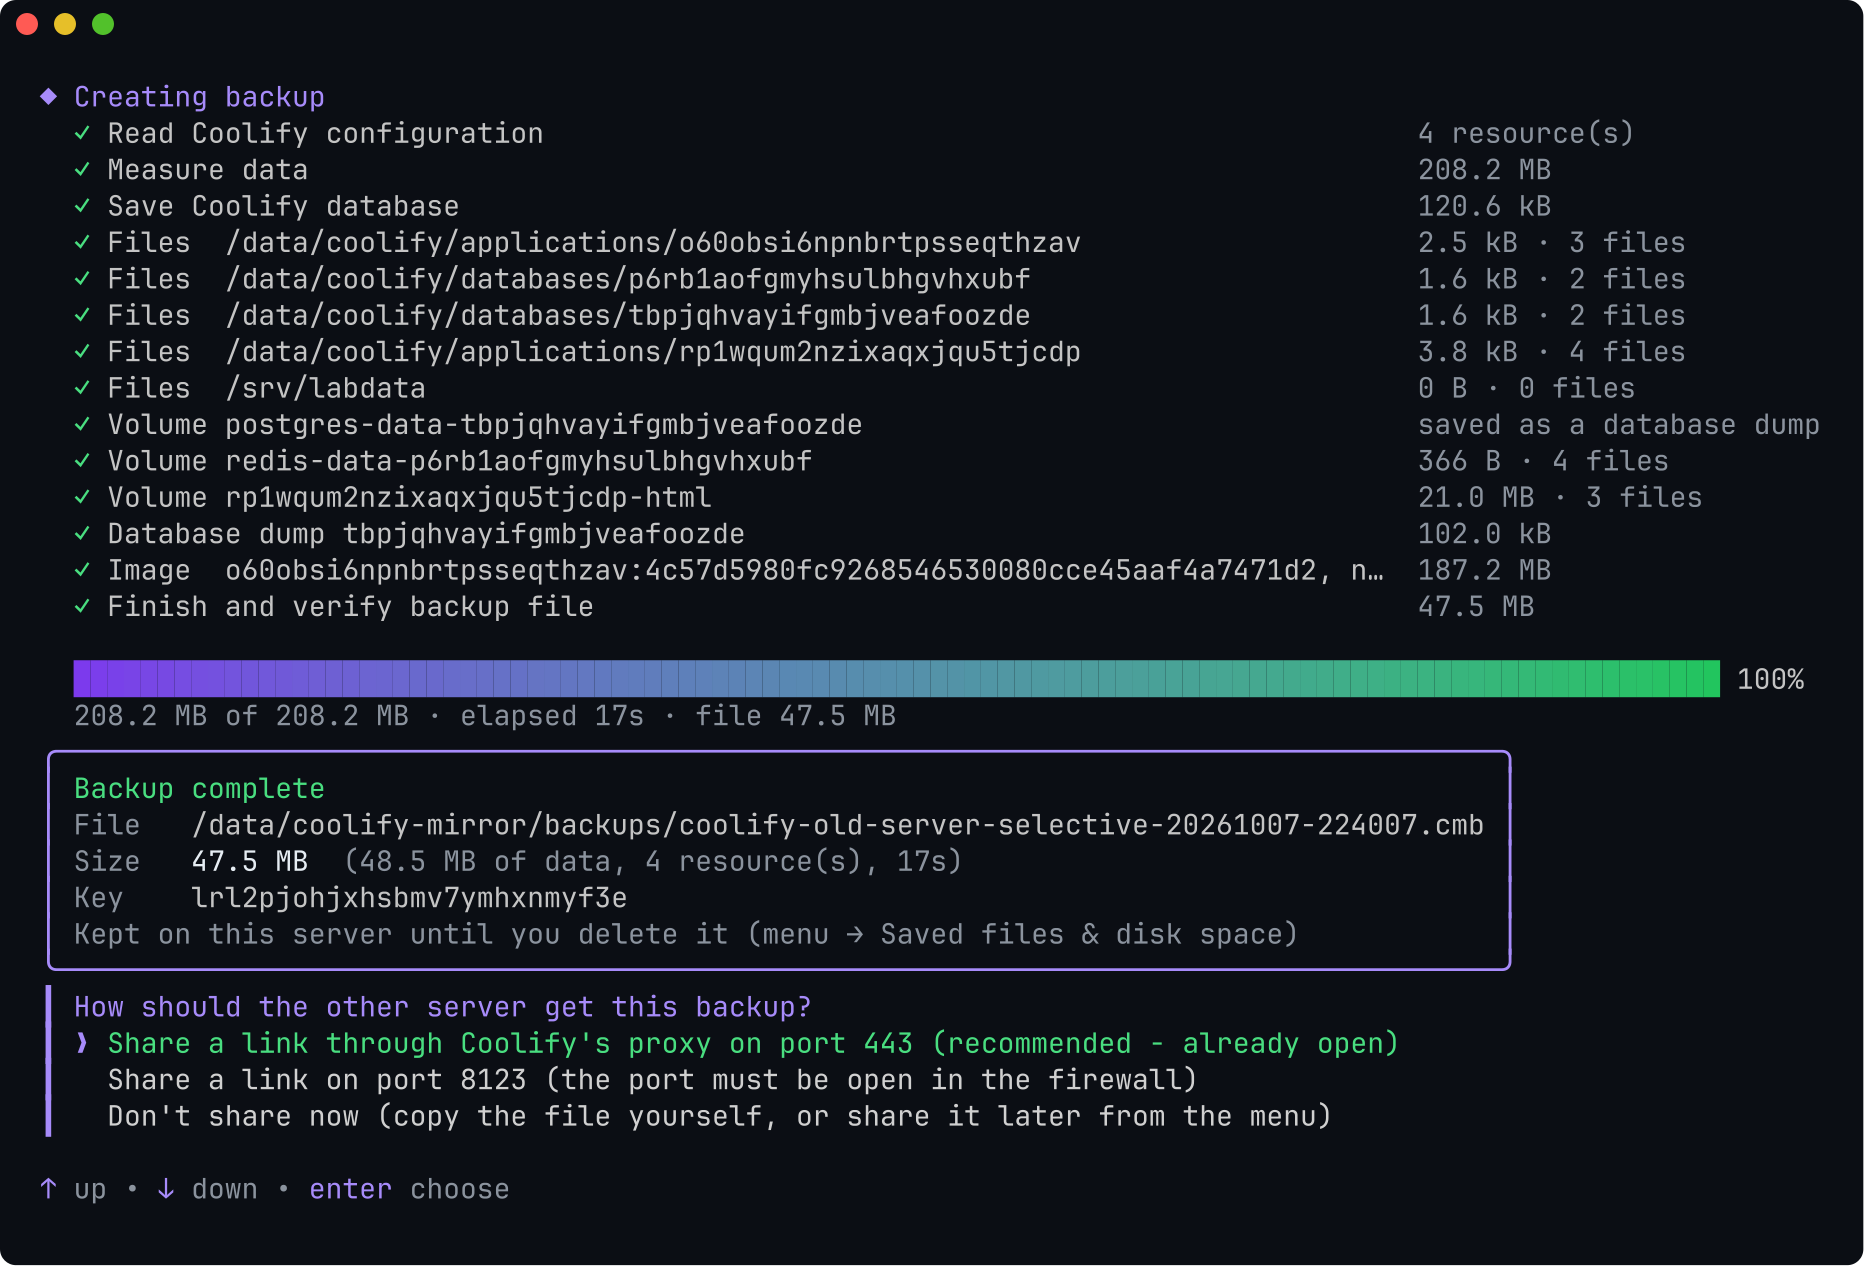
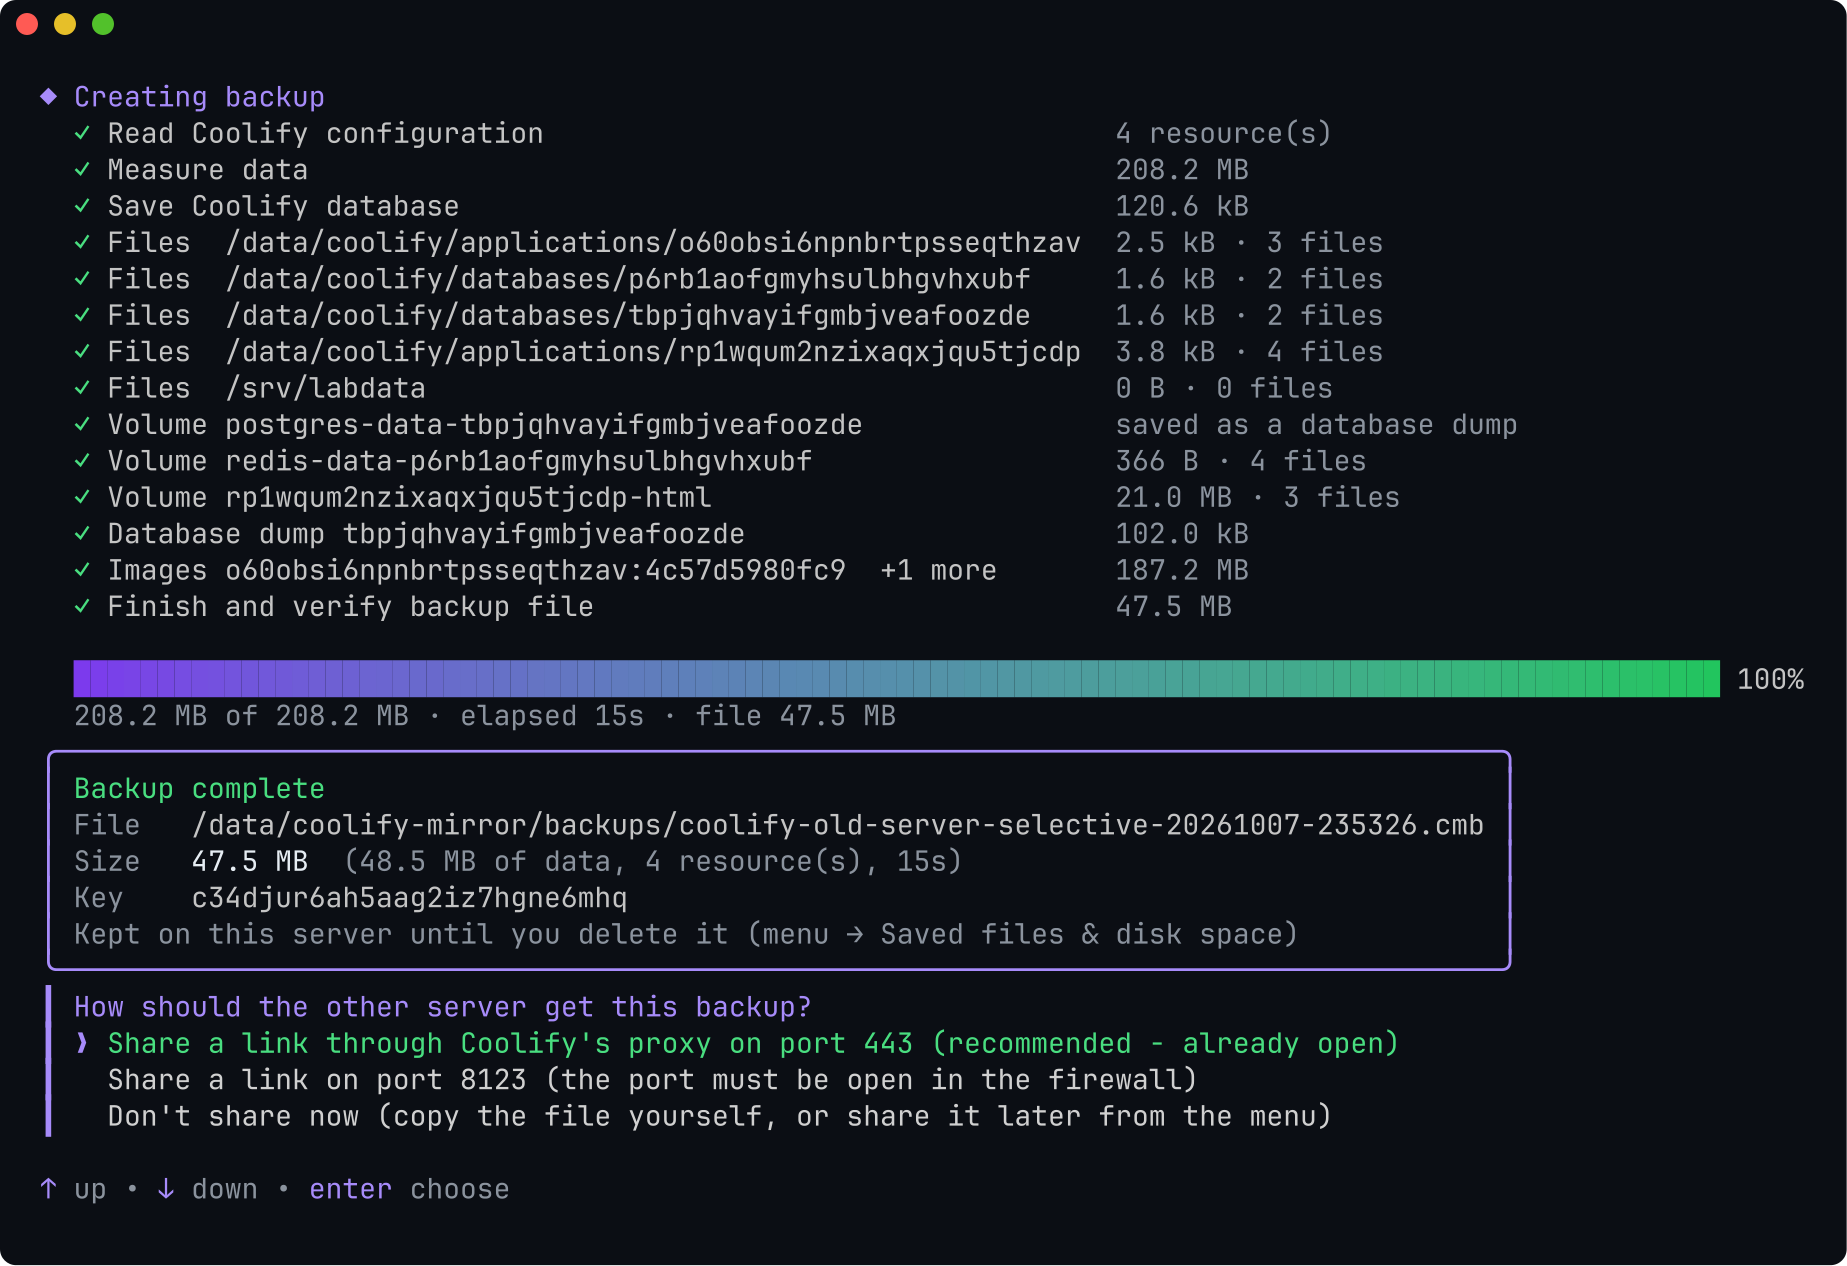
Docs and website: 1.8.1 screenshots from a real project move
All screenshots retaken with the released 1.8.1: the restore box with domains on their own lines, the new share screen and full progress notes. Shop moved to a fresh Coolify 4.3.23 and verified in 2m59s.

diff --git a/site/index.html b/site/index.html
@@ -103,7 +103,7 @@
         <i class="ph ph-hard-drives ph-icon" aria-hidden="true"></i>
         <h3>Data, copied while it runs</h3>
         <p>Volumes, bind folders and files. Containers pause for the seconds a copy takes. Databases never pause.</p>
-        <figure><img src="assets/img/05-progress.webp" width="1930" height="830" alt="Backup progress: files, volumes, a database dump and an image, with size, speed and time left" loading="lazy" decoding="async"></figure>
+        <figure><img src="assets/img/05-progress.webp" width="1847" height="830" alt="Backup progress: files, volumes, a database dump and an image, with size, speed and time left" loading="lazy" decoding="async"></figure>
       </article>
       <article class="cell">
         <i class="ph ph-database ph-icon" aria-hidden="true"></i>
@@ -178,9 +178,9 @@
           <button class="thumb" type="button" aria-pressed="false" data-src="assets/img/02-select.webp" data-w="1897" data-h="538" data-alt="List of projects with main domain, contents and state" data-cap="Pick the project: everything in it moves together.">Pick the project</button>
           <button class="thumb" type="button" aria-pressed="false" data-src="assets/img/03-deps.webp" data-w="1297" data-h="429" data-alt="Dependency question for shop-db" data-cap="One app only (last line of the list): its database is found by itself.">One app only</button>
           <button class="thumb" type="button" aria-pressed="false" data-src="assets/img/04-options.webp" data-w="1647" data-h="865" data-alt="Ready to back up: the Shop project with its four resources and the settings" data-cap="Ready to back up: what goes in, project by project, and the settings.">Review</button>
-          <button class="thumb" type="button" aria-pressed="false" data-src="assets/img/05-progress.webp" data-w="1930" data-h="830" data-alt="Backup progress" data-cap="Every step with size, speed and time left.">Progress</button>
-          <button class="thumb" type="button" aria-pressed="false" data-src="assets/img/06-done.webp" data-w="1864" data-h="1266" data-alt="Backup complete and the share question" data-cap="Backup complete. Share through port 443.">Share</button>
-          <button class="thumb" type="button" aria-pressed="false" data-src="assets/img/07-share.webp" data-w="1964" data-h="793" data-alt="The command and share code for the new server" data-cap="Copy the green line for the new server.">The command</button>
+          <button class="thumb" type="button" aria-pressed="false" data-src="assets/img/05-progress.webp" data-w="1847" data-h="830" data-alt="Backup progress" data-cap="Every step with size, speed and time left.">Progress</button>
+          <button class="thumb" type="button" aria-pressed="false" data-src="assets/img/06-done.webp" data-w="1847" data-h="1266" data-alt="Backup complete and the share question" data-cap="Backup complete. Share through port 443.">Share</button>
+          <button class="thumb" type="button" aria-pressed="false" data-src="assets/img/07-share.webp" data-w="1964" data-h="865" data-alt="The command and share code for the new server" data-cap="Copy the green line for the new server.">The command</button>
         </div>
       </div>
     </div>
@@ -210,9 +210,9 @@
         </figure>
         <div class="thumbs" aria-label="Screens of this step">
           <button class="thumb" type="button" aria-pressed="true" data-src="assets/img/08-paste.webp" data-w="1964" data-h="1302" data-alt="The pasted command installing the tool and verifying the backup" data-cap="Paste: install, download and verify before any change.">Paste</button>
-          <button class="thumb" type="button" aria-pressed="false" data-src="assets/img/10-confirm.webp" data-w="1947" data-h="865" data-alt="Restore these resources into this Coolify question" data-cap="A trial import runs first, then it asks.">Confirm</button>
-          <button class="thumb" type="button" aria-pressed="false" data-src="assets/img/12-domains.webp" data-w="1930" data-h="1266" data-alt="Restore progress and the domains step" data-cap="Files, volumes, images, dumps, then your domains.">Domains</button>
-          <button class="thumb" type="button" aria-pressed="false" data-src="assets/img/13-complete.webp" data-w="1947" data-h="1047" data-alt="Restore complete, everything verified" data-cap="Started by Coolify, checked for real.">Verified</button>
+          <button class="thumb" type="button" aria-pressed="false" data-src="assets/img/10-confirm.webp" data-w="1864" data-h="683" data-alt="Restore these resources into this Coolify question" data-cap="A trial import runs first, then it asks.">Confirm</button>
+          <button class="thumb" type="button" aria-pressed="false" data-src="assets/img/12-domains.webp" data-w="1847" data-h="1266" data-alt="Restore progress and the domains step" data-cap="Files, volumes, images, dumps, then your domains.">Domains</button>
+          <button class="thumb" type="button" aria-pressed="false" data-src="assets/img/13-complete.webp" data-w="1914" data-h="1084" data-alt="Restore complete, everything verified" data-cap="Started by Coolify, checked for real.">Verified</button>
         </div>
       </div>
     </div>
@@ -284,7 +284,7 @@
       <p>Coolify starts everything. Then the tool checks what actually happened, and says so plainly when something does not work.</p>
     </div>
     <figure class="proof-shot" style="margin-inline:auto">
-      <img class="shot" src="assets/img/13-complete.webp" width="1947" height="1047" alt="Restore complete, everything verified: shop-api, shop-web, shop-cache and shop-db running, domains answering through the proxy" decoding="async">
+      <img class="shot" src="assets/img/13-complete.webp" width="1914" height="1084" alt="Restore complete, everything verified: shop-api, shop-web, shop-cache and shop-db running, domains answering through the proxy" decoding="async">
     </figure>
     <div class="checks">
       <div><h3><i class="ph ph-check-circle" aria-hidden="true"></i>Same services</h3><p>Every service that ran on the old server is up on the new one.</p></div>
@@ -323,8 +323,8 @@
       </article>
       <article class="case">
         <h3>From paste to verified</h3>
-        <div class="metric">2m 48s<small>restore to verified</small></div>
-        <p>The tutorial above: a whole project (two apps, Redis and Postgres) moved through port 443 to a brand-new Coolify with the released 1.8.0. The 47.5 MB download and its checks took a second on the lab network.</p>
+        <div class="metric">2m 59s<small>restore to verified</small></div>
+        <p>The tutorial above: a whole project (two apps, Redis and Postgres) moved through port 443 to a brand-new Coolify with the released 1.8.1. The 47.5 MB download and its checks took a second on the lab network.</p>
       </article>
     </div>
   </div>

diff --git a/README.fa.md b/README.fa.md
@@ -443,6 +443,7 @@ docker volume rm cmlab-src-docker cmlab-src-containerd cmlab-src-data cmlab-dst-
 | 1.3.0: پاسخ واقعی Traefik وقتی پروکسی از شبکهی اپ جدا است / دامنه route ندارد | ✓ 504 و 404 شناخته شدند؛ بعد از وصل دوباره 200 |
 | 1.3.1: merge روی Coolify موجود که همان فایل سیاست build را دارد / همان فایل با محتوای دیگر | ✓ فایل یکسان دست نخورد و `SUCCESS` + rebuild موفق؛ فایل متفاوت ← «restore not allowed» و هیچ تغییری روی مقصد |
 | 1.7.0 منتشرشده: **انتقال کامل با دستورهای همین راهنما** — نصبکنندهی رسمی روی سرور قدیم، `Back up apps` (shop-web، Postgres آن خودکار اضافه شد)، `Recommended`، اشتراک از پورت 443، Paste همان دستور روی یک Coolify 4.3.23 **تازهنصب** | ✓ دانلود و بررسی در ۱ ثانیه؛ ریستور تا «Restore complete · everything verified» در ۲ دقیقه و ۳۹ ثانیه؛ هر دو ریسورس پایدار و دامنهها از Traefik جواب دادند؛ بعد `All backups` ← `ALL` سه بکآپ سرور قدیم را یکجا حذف کرد |
+| 1.8.1 منتشرشده: همان انتقال کامل پروژهی Shop با نصبکنندهی رسمی روی هر دو سرور و یک Coolify 4.3.23 تازهنصب | ✓ نصبکننده 1.8.1 را نصب کرد؛ «Restore complete · everything verified» در ۲ دقیقه و ۵۹ ثانیه، دامنهها در خط جدا داخل کادر؛ دامنهها HTTP 200؛ بعد `ALL` دو بکآپ را حذف کرد. اسکرینشاتهای README و سایت از همین اجرا هستند |
 | 1.8.1: بکآپ دو پروژه (Shop و Compose Lab، ۵ ریسورس) ← اشتراک از منو (`Share a saved backup`، پورت 443) ← ریستور روی مقصد پاکشده؛ در مرحلهی دامنه، دامنهی `web` برداشته و به `migrate` (بدون دامنه) داده شد | ✓ صفحهی اشتراک بدون خط شکسته؛ تأیید بدون هشدار GitHub App؛ سؤال «Move the domain to a service that had none?» آمد، No ← برگشت به ویرایش و درست کردن؛ «Restore complete · everything verified»، همهی ۵ ریسورس پایدار، دامنهها هر کدام در خط جدا و noteها با تورفتگی داخل کادر |
 | 1.8.0 منتشرشده: **انتقال کامل یک پروژه با دستورهای همین راهنما** — نصبکنندهی رسمی روی سرور قدیم، `Back up apps` ← پروژهی Shop (دو اپ، Redis، Postgres)، `Start the backup`، اشتراک از پورت 443، Paste همان دستور روی یک Coolify 4.3.23 **تازهنصب** | ✓ نصبکننده نسخهی 1.8.0 را از GitHub نصب کرد؛ دانلود و بررسی ۴۷٫۵ مگابایت در ۱ ثانیه؛ «Restore complete · everything verified» در ۲ دقیقه و ۴۸ ثانیه؛ هر ۴ ریسورس پایدار و دامنهها از Traefik جواب دادند (HTTP 200)؛ بعد `All backups` ← `ALL` دو بکآپ سرور قدیم را حذف کرد. همهی اسکرینشاتهای README و سایت از همین اجرا است |
 | 1.8.0: `Back up apps` روی مبدأ lab (۳ پروژه) ← پروژهی Shop با Enter | ✓ هر ۴ ریسورس (shop-api، shop-web، shop-cache، shop-db) در `Ready to back up`؛ بکآپ ۴۷.۵ مگابایت در ۱۵ ثانیه |
@@ -482,6 +483,8 @@ docker volume rm cmlab-src-docker cmlab-src-containerd cmlab-src-data cmlab-dst-
 - **صفحهی تأیید ریستور:** هشدار عمومی Coolify دربارهی GitHub App وقتی بکآپ هیچ GitHub App واقعی ندارد (فقط منبع پیشفرض «Public GitHub») دیگر نشان داده نمیشود. فایل میزبان (مثل اسکریپت build) «host file» نوشته میشود، نه «host folder».
 - **محافظت دامنه در اپهای Docker Compose** (از PR قدیمی #6): در مرحلهی دامنه، سرویسهایی که در سرور قدیم دامنه نداشتند با `(had no domain)` مشخص و آخر لیست میآیند. اگر دامنه از سرویس اصلی برداشته و به یکی از اینها (مثلاً worker یا database-backup) داده شود، اول میپرسد (پیشفرض No و برگشت به ویرایش)، تا ترافیک عمومی اشتباهی به یک job نرود.
 - اگر فقط http به https عوض شود، خلاصهی تغییر دامنه آن را نشان میدهد (قبلاً `labapp.cmlab.test → labapp.cmlab.test` دیده میشد).
+- بازبینی خودکار PR دو مورد دیگر هم پیدا کرد که درست شد: جابهجا کردن **یکی** از چند دامنهی یک سرویس هم سؤال را نشان میدهد، و شکستن متنهای بلند با حروف پهن (مثل چینی) دیگر نمیتواند برنامه را از کار بیندازد.
+- بعد از انتشار: همهی اسکرینشاتهای README و سایت با نسخهی منتشرشدهی 1.8.1 از نو گرفته شدند.
 
 ### 1.8.0 — ۲۰۲۶-۱۰-۰۸
 

diff --git a/README.md b/README.md
@@ -167,7 +167,7 @@ Needs Go 1.26+. The binaries are static (no CGO) and have no runtime dependencie
 
 ## 🎬 Walkthrough — every screen
 
-A real move of the `Shop` project (two apps, Redis and Postgres) from an old server to a **brand-new Coolify 4.3.23**, with the released 1.8.0 and the commands above. The screens are not edited; the lab servers use documentation IP addresses.
+A real move of the `Shop` project (two apps, Redis and Postgres) from an old server to a **brand-new Coolify 4.3.23**, with the released 1.8.1 and the commands above. The screens are not edited; the lab servers use documentation IP addresses.
 
 ### On the old server
 
@@ -412,7 +412,7 @@ Coolify ships often, and the tool relies on parts of it (database tables, PHP cl
 
 ## 🧪 Tested
 
-The [walkthrough](#-walkthrough--every-screen) is a real run of the released 1.8.0: the one-line installer on both servers, a whole project (two apps, Redis and Postgres) moved to a freshly installed Coolify 4.3.23 through port 443, verified and running in 2m48s, then every backup deleted with **ALL**. Automatically, for every new Coolify release: [`lab/e2e.sh`](lab/e2e.sh) (two fresh servers, official installer, a git compose app + Postgres + an image app with a volume and domains, backup → share code → restore, data compared through the proxy) — passing on 4.3.23. By hand on real Coolify 4.3.23 installs (lab in [`lab/`](lab)): **a real migration with zero manual fixes** — healthy source → new backup → freshly installed Coolify → selective and full restore with `--verify-redeploy` (a multi-service compose app whose build uses a host policy script and a named buildx builder, a Dockerfile app, an image app, WordPress + MariaDB, Postgres): `SUCCESS`, the same secrets, volume data and database rows as the source, every domain answering through Traefik, and a full rebuild on the target; merge into an existing Coolify without touching its other resources; an app that exits and one that turns unhealthy after the restore reported as *NOT operational*; rollback leaving the target exactly as before; backups made by 1.2.0. Also: native Postgres/MariaDB dumps (identical row counts and checksums after restore), HTTPS share through Traefik passthrough with pin check (a wrong pin is refused, plain HTTP gets nothing), full restore refused on a non-empty Coolify and accepted on a fresh one, Postgres/MariaDB/Redis data, WordPress, compose apps, Git apps without rebuild, copies next to originals (a single-container app restored as a copy is checked under its new name), saved-file cleanup on both servers (all backups at once, some, or one; a backup shared in the background is unshared first; one shared from another window and a volume in use are refused), restore into a fresh never-used Coolify, full server restore with rollback (fault injection), interrupted backups, domain changes at the end, plus unit tests for Laravel encryption, the archive format, the import planner and resumable downloads.
+The [walkthrough](#-walkthrough--every-screen) is a real run of the released 1.8.1: the one-line installer on both servers, a whole project (two apps, Redis and Postgres) moved to a freshly installed Coolify 4.3.23 through port 443, verified and running in 2m59s, then every backup deleted with **ALL**. Automatically, for every new Coolify release: [`lab/e2e.sh`](lab/e2e.sh) (two fresh servers, official installer, a git compose app + Postgres + an image app with a volume and domains, backup → share code → restore, data compared through the proxy) — passing on 4.3.23. By hand on real Coolify 4.3.23 installs (lab in [`lab/`](lab)): **a real migration with zero manual fixes** — healthy source → new backup → freshly installed Coolify → selective and full restore with `--verify-redeploy` (a multi-service compose app whose build uses a host policy script and a named buildx builder, a Dockerfile app, an image app, WordPress + MariaDB, Postgres): `SUCCESS`, the same secrets, volume data and database rows as the source, every domain answering through Traefik, and a full rebuild on the target; merge into an existing Coolify without touching its other resources; an app that exits and one that turns unhealthy after the restore reported as *NOT operational*; rollback leaving the target exactly as before; backups made by 1.2.0. Also: native Postgres/MariaDB dumps (identical row counts and checksums after restore), HTTPS share through Traefik passthrough with pin check (a wrong pin is refused, plain HTTP gets nothing), full restore refused on a non-empty Coolify and accepted on a fresh one, Postgres/MariaDB/Redis data, WordPress, compose apps, Git apps without rebuild, copies next to originals (a single-container app restored as a copy is checked under its new name), saved-file cleanup on both servers (all backups at once, some, or one; a backup shared in the background is unshared first; one shared from another window and a volume in use are refused), restore into a fresh never-used Coolify, full server restore with rollback (fault injection), interrupted backups, domain changes at the end, plus unit tests for Laravel encryption, the archive format, the import planner and resumable downloads.
 
 ---
 
